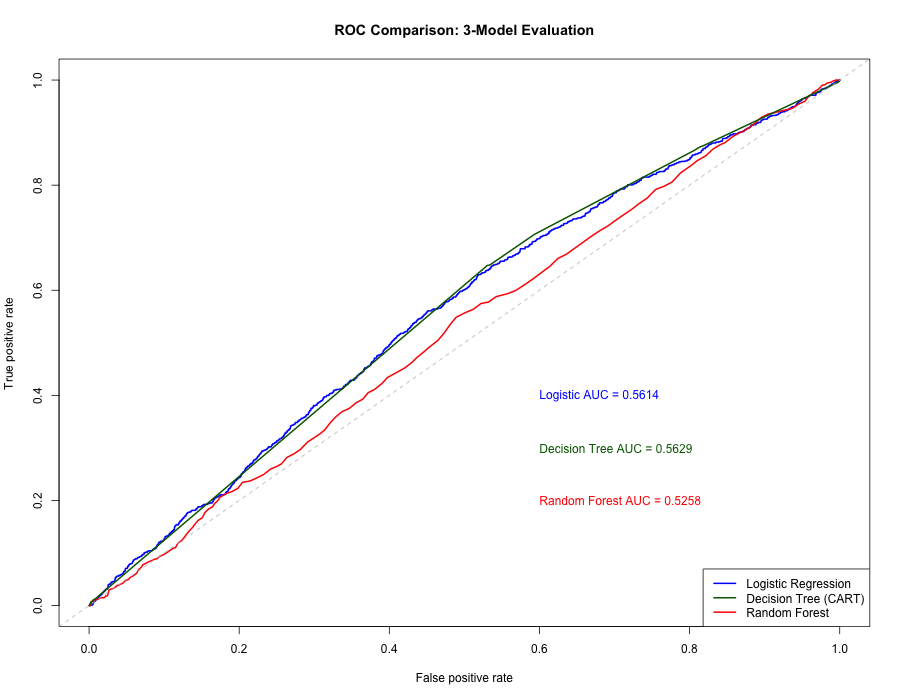
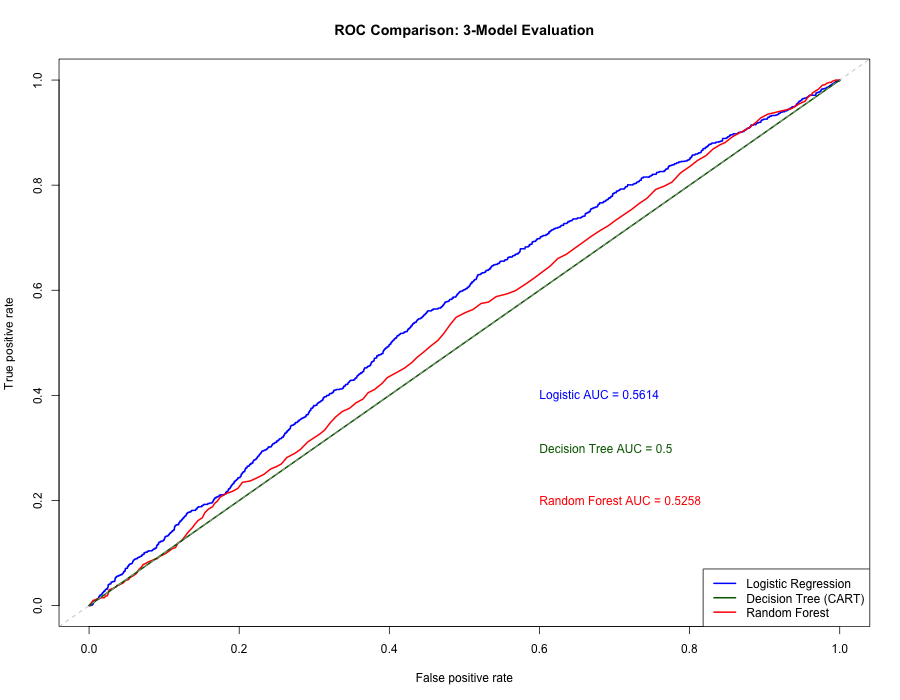
Reframe README around conversion diagnostics; prune CART to avoid overfitting weak signal

diff --git a/README.md b/README.md
@@ -1,10 +1,12 @@
 # E-commerce Purchase Prediction
 
-Predicting whether a browsing session ends in a purchase from user behavior signals (time on site, pages viewed, discounting, device, traffic source), using logistic regression, a classification tree (CART), and a random forest.
+A conversion-rate diagnostic: does session-level behavior (time on site, pages viewed, discounting, device, traffic source) actually explain whether a browsing session ends in a purchase? Tested with logistic regression, a classification tree (CART), and a random forest.
 
-## Overview
+## The Business Question
 
-Most e-commerce sessions don't convert. This project builds a binary classifier — `purchased` (1) vs. `not purchased` (0) — from session-level behavioral features, and compares three modeling approaches on held-out data.
+**North Star metric:** session-to-purchase conversion rate.
+
+Most e-commerce sessions don't convert, and when conversion drops, the first thing a growth team wants to know is *which lever moved*. This project treats that as a testable question: take the behavioral signals a team could plausibly act on or attribute a drop to — time on site, pages viewed, discount depth, device, new-vs-returning visitor, acquisition channel — and check whether they actually predict `purchased` (1) vs. `not purchased` (0) on held-out sessions.
 
 ## Dataset
 
@@ -44,9 +46,21 @@ The full raw file also includes session/product identifiers, cart and review beh
 3. **Train/test split** — 80/20.
 4. **Models**
    - Logistic regression
-   - CART (`rpart`, `cp = 0.0003`)
+   - CART (`rpart`, `cp = 0.002` — pruned deliberately conservative so any split it does find is a robust pattern, not noise fit to a weak signal)
    - Random forest (`randomForest`, 500 trees)
 5. **Evaluation** — ROC AUC for all three models on the same plot, misclassification rate at a 0.3 cutoff, and a cutoff-sensitivity sweep (0.2–0.6) to see how each model's error rate responds to threshold choice.
+
+## Findings
+
+| Model | Test AUC | Test Misclassification (cutoff 0.3) |
+|---|---|---|
+| Logistic regression | 0.561 | 0.231 |
+| CART (pruned) | 0.500 | 0.229 |
+| Random forest | 0.526 | 0.259 |
+
+**The headline finding is the CART result, not the logistic one.** Pruned conservatively (so it only keeps a split if the pattern is strong enough to be worth trusting), the tree finds *no split at all* — AUC lands exactly at 0.500, chance level. That's a clean, honest answer to the business question: on this feature set, there is no robust decision rule of the form "sessions with X behavior convert more." Logistic regression and random forest do edge out chance (AUC 0.56 and 0.53), so there's some real signal in time-on-site and pages-viewed — just not enough to act on with confidence, and not enough for any model to reach strong discrimination (AUC > 0.7).
+
+**What this means for root-cause diagnosis:** if conversion rate drops, this feature set alone can't tell you why. Time on site and pages viewed carry a little signal, but discount depth, device, and channel don't move the needle much in isolation. The practical next step isn't tuning these models further — it's instrumenting more of the funnel (price relative to competitors, cart/checkout friction, prior purchase history, promotional timing) so there's an actual lever to pull when the metric moves.
 
 ## How to run
 
@@ -57,16 +71,6 @@ Rscript analysis/purchase_prediction_analysis.R
 ```
 
 Requires R (≥ 4.0) with packages: `dplyr`, `ggplot2`, `ROCR`, `rpart`, `rpart.plot`, `randomForest` — the script installs any that are missing on first run. Plots are written to `outputs/`.
-
-## Results
-
-| Model | Test AUC | Test Misclassification (cutoff 0.3) |
-|---|---|---|
-| Logistic regression | 0.561 | 0.231 |
-| CART | 0.563 | 0.230 |
-| Random forest | 0.526 | 0.259 |
-
-Logistic regression and CART perform comparably and modestly outperform random forest here. All three show real (if modest) predictive lift over chance — unlike a pure-noise baseline, session behavior (particularly time on site and pages viewed) carries some signal about purchase intent, but no single model dominates and none reaches strong discriminative power (AUC > 0.7) on these features alone. Adding product-category or price-sensitivity interactions would be a natural next step to improve separation.
 
 ## License
 